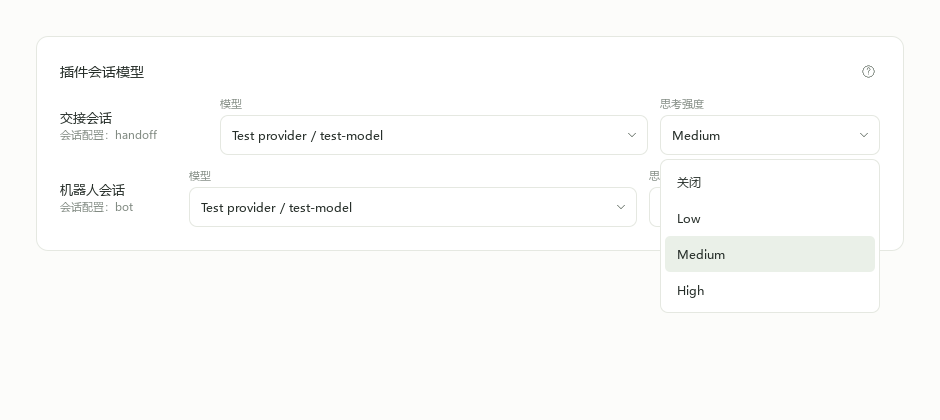
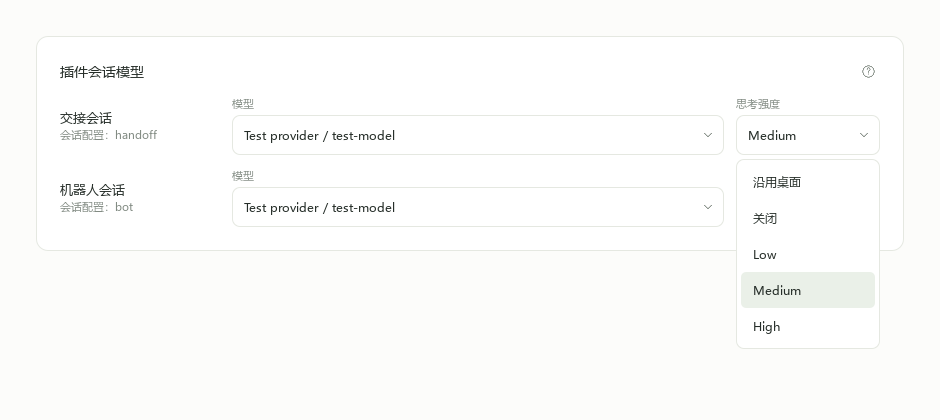
fix(settings): 对齐插件会话列并支持恢复桌面档位
名称列采用固定宽度并截断长名称，模型与思考强度列跨行对齐。
思考下拉框始终以沿用桌面为首项，inherit 清除 profile 中的固定
档位；空字符串继续保持原值，保存失败回滚，忙时在下一输入应用。
同步操作参数说明、文档、测试及展开/收起两张中文离屏截图。

验证：49 项插件策略和设置测试、10 项离屏界面测试、
2 项文档契约测试通过，全部使用假服务，无真实模型请求。

diff --git a/app/qml/PluginSessionModels.qml b/app/qml/PluginSessionModels.qml
@@ -9,6 +9,8 @@ SectionCard {
     objectName: "pluginSessionModels"
     readonly property var profiles: backend.pluginSessionProfiles
     readonly property var choices: backend.pluginSessionModels
+    readonly property real nameColumnWidth: Theme.control(160)
+    readonly property real effortColumnWidth: Theme.control(144)
     visible: profiles.length > 0
     ColumnLayout {
         width: parent.width; spacing: 14
@@ -25,12 +27,16 @@ SectionCard {
                 readonly property string savedEffort: modelData.reasoningEffort || ""
                 Layout.fillWidth: true; spacing: 12
                 ColumnLayout {
-                    Layout.fillWidth: true; spacing: 2
-                    Text { text: row.modelData.pluginName; color: Theme.ink; font.family: Theme.fontFamily; font.pixelSize: Theme.font(13, visible); elide: Text.ElideRight; Layout.fillWidth: true }
-                    Text { text: I18n.t("会话配置：%1").arg(row.modelData.profile); color: Theme.muted; font.family: Theme.fontFamily; font.pixelSize: Theme.font(11, visible); elide: Text.ElideRight; Layout.fillWidth: true }
+                    Layout.minimumWidth: root.nameColumnWidth
+                    Layout.preferredWidth: root.nameColumnWidth
+                    Layout.maximumWidth: root.nameColumnWidth
+                    spacing: 2
+                    Text { objectName: "pluginSessionName_" + row.modelData.plugin + "_" + row.modelData.profile; text: row.modelData.pluginName; color: Theme.ink; font.family: Theme.fontFamily; font.pixelSize: Theme.font(13, visible); elide: Text.ElideRight; Layout.fillWidth: true; Layout.minimumWidth: 0 }
+                    Text { text: I18n.t("会话配置：%1").arg(row.modelData.profile); color: Theme.muted; font.family: Theme.fontFamily; font.pixelSize: Theme.font(11, visible); elide: Text.ElideRight; Layout.fillWidth: true; Layout.minimumWidth: 0 }
                 }
                 ColumnLayout {
-                    Layout.preferredWidth: Math.min(Theme.control(280), root.width * 0.4)
+                    Layout.fillWidth: true
+                    Layout.minimumWidth: 0
                     spacing: 4
                     Text { text: I18n.t("模型"); color: Theme.muted; font.family: Theme.fontFamily; font.pixelSize: Theme.font(11, visible) }
                     Picker {
@@ -53,7 +59,9 @@ SectionCard {
                     }
                 }
                 ColumnLayout {
-                    Layout.preferredWidth: Theme.control(144)
+                    Layout.minimumWidth: root.effortColumnWidth
+                    Layout.preferredWidth: root.effortColumnWidth
+                    Layout.maximumWidth: root.effortColumnWidth
                     spacing: 4
                     Text { text: I18n.t("思考强度"); color: Theme.muted; font.family: Theme.fontFamily; font.pixelSize: Theme.font(11, visible) }
                     Picker {
@@ -61,13 +69,11 @@ SectionCard {
                         objectName: "pluginSessionReasoning_" + row.modelData.plugin + "_" + row.modelData.profile
                         Layout.fillWidth: true
                         enabled: picker.selectedIndex >= 0
-                        // Empty means leave unchanged in the save API, so inheritance is
-                        // offered only while the profile already inherits desktop settings.
-                        readonly property var values: (row.savedEffort ? [] : [""]).concat(["off"],
+                        readonly property var values: ["inherit", "off"].concat(
                             (picker.selectedIndex >= 0 ? root.choices[picker.selectedIndex].reasoningLevels || [] : [])
-                                .filter(level => level !== "off"))
-                        readonly property int selectedIndex: values.indexOf(row.savedEffort)
-                        model: values.map(level => level === "" ? I18n.t("沿用桌面")
+                                .filter(level => level !== "off" && level !== "inherit"))
+                        readonly property int selectedIndex: values.indexOf(row.savedEffort || "inherit")
+                        model: values.map(level => level === "inherit" ? I18n.t("沿用桌面")
                             : level === "off" ? I18n.t("关闭") : Reasoning.label(level))
                         displayText: currentIndex < 0 ? Reasoning.label(row.savedEffort) : currentText
                         Accessible.name: I18n.t("思考强度") + " " + row.modelData.pluginName + " " + row.modelData.profile

diff --git a/tests/test_plugin_session_models_setting.py b/tests/test_plugin_session_models_setting.py
@@ -23,7 +23,7 @@ for name, directory in (("UMEKO_DATA_DIR", "data"), ("XDG_CONFIG_HOME", "config"
                         ("XDG_DATA_HOME", "data"), ("XDG_CACHE_HOME", "cache")):
     os.environ[name] = str(TEST_DIRECTORY / directory)
 
-from PySide6.QtCore import QObject, Property, QUrl, Signal, Slot
+from PySide6.QtCore import QObject, QPointF, Property, QUrl, Signal, Slot
 from PySide6.QtQml import QQmlApplicationEngine
 from PySide6.QtQuick import QQuickWindow
 import shiboken6
@@ -42,8 +42,7 @@ class ProfileBackend(QObject):
         super().__init__()
         self._language = language
         self._profiles = [{"plugin": "session-task-service", "profile": "tasks", "pluginName": "Session task service",
-                           "model": "test-model-a", "provider": "test-provider",
-                           "reasoningEffort": ""}]
+                           "model": "test-model-a", "provider": "test-provider"}]
         self.choices = [dict(row) for row in CHOICES]
         self.calls = []
         self.accept_save = True
@@ -78,7 +77,9 @@ class ProfileBackend(QObject):
             return False
         saved = self._profiles[0]
         saved.update(model=model, provider=provider)
-        if effort:
+        if effort == 'inherit':
+            saved.pop('reasoningEffort', None)
+        elif effort:
             saved['reasoningEffort'] = effort
         self.changed.emit()
         return True
@@ -163,7 +164,7 @@ class PluginSessionModelSettingTests(unittest.TestCase):
         ui = self.ui()
         picker = ui.reasoning_picker()
         self.assertEqual(picker.property("displayText"), "沿用桌面")
-        self.assertEqual(picker.property("values").toVariant(), ["", "off", "low", "high"])
+        self.assertEqual(picker.property("values").toVariant(), ["inherit", "off", "low", "high"])
         picker.setProperty("currentIndex", 3)
         picker.activated.emit(3)
         self.app.processEvents()
@@ -171,7 +172,7 @@ class PluginSessionModelSettingTests(unittest.TestCase):
         picker = ui.reasoning_picker()
         self.assertEqual(ui.backend.calls[-1], ("session-task-service", "tasks", "test-model-a", "test-provider", "high"))
         self.assertEqual(picker.property("displayText"), "High")
-        self.assertEqual(picker.property("values").toVariant(), ["off", "low", "high"])
+        self.assertEqual(picker.property("values").toVariant(), ["inherit", "off", "low", "high"])
         self.assertEqual(ui.warnings, [])
 
     def test_model_change_uses_its_levels_and_preserves_configured_effort(self):
@@ -185,7 +186,7 @@ class PluginSessionModelSettingTests(unittest.TestCase):
         self.app.processEvents()
         self.app.processEvents()
         effort = ui.reasoning_picker()
-        self.assertEqual(effort.property("values").toVariant(), ["off", "medium", "xhigh"])
+        self.assertEqual(effort.property("values").toVariant(), ["inherit", "off", "medium", "xhigh"])
         self.assertEqual(effort.property("displayText"), "High")
         self.assertEqual(ui.backend._profiles[0]['reasoningEffort'], 'high')
         self.assertEqual(ui.warnings, [])
@@ -209,7 +210,7 @@ class PluginSessionModelSettingTests(unittest.TestCase):
         self.app.processEvents()
         self.app.processEvents()
         picker = ui.reasoning_picker()
-        self.assertEqual(picker.property("values").toVariant(), ["off"])
+        self.assertEqual(picker.property("values").toVariant(), ["inherit", "off"])
         self.assertEqual(picker.property("displayText"), "关闭")
         self.assertEqual(ui.warnings, [])
 
@@ -222,6 +223,54 @@ class PluginSessionModelSettingTests(unittest.TestCase):
         self.app.processEvents()
         self.app.processEvents()
         self.assertEqual(picker.property("currentIndex"), 0)
+        self.assertEqual(ui.warnings, [])
+
+    def test_inherit_stays_first_and_clears_the_saved_effort(self):
+        ui = self.ui()
+        ui.backend._profiles[0]['reasoningEffort'] = 'high'
+        ui.backend.changed.emit()
+        self.app.processEvents()
+        picker = ui.reasoning_picker()
+        self.assertEqual(picker.property('values').toVariant()[0], 'inherit')
+        picker.setProperty('currentIndex', 0)
+        picker.activated.emit(0)
+        self.app.processEvents()
+        self.assertEqual(ui.backend.calls[-1][-1], 'inherit')
+        self.assertNotIn('reasoningEffort', ui.backend._profiles[0])
+        self.assertEqual(ui.reasoning_picker().property('currentIndex'), 0)
+        self.assertEqual(ui.reasoning_picker().property('displayText'), '沿用桌面')
+        self.assertEqual(ui.warnings, [])
+
+    def test_inherit_failure_restores_the_saved_effort(self):
+        ui = self.ui()
+        ui.backend._profiles[0]['reasoningEffort'] = 'high'
+        ui.backend.changed.emit()
+        self.app.processEvents()
+        ui.backend.accept_save = False
+        picker = ui.reasoning_picker()
+        picker.setProperty('currentIndex', 0)
+        picker.activated.emit(0)
+        self.app.processEvents()
+        self.assertEqual(picker.property('displayText'), 'High')
+        self.assertEqual(ui.backend._profiles[0]['reasoningEffort'], 'high')
+        self.assertEqual(ui.warnings, [])
+
+    def test_columns_align_for_different_names_and_long_names_are_elided(self):
+        ui = self.ui()
+        ui.backend._profiles[0]['pluginName'] = '交接会话'
+        ui.backend._profiles.append({'plugin': 'other', 'profile': 'bot',
+            'pluginName': '机器人会话与一个需要截断的很长名称' * 8,
+            'model': 'test-model-b', 'provider': 'test-provider', 'reasoningEffort': 'medium'})
+        ui.backend.changed.emit()
+        self.app.processEvents()
+        self.app.processEvents()
+        items = {item.objectName(): item for item in ui.items() if item.objectName()}
+        for prefix in ('pluginSessionModel_', 'pluginSessionReasoning_'):
+            first = items[prefix + 'session-task-service_tasks']
+            second = items[prefix + 'other_bot']
+            self.assertAlmostEqual(first.mapToScene(QPointF()).x(), second.mapToScene(QPointF()).x())
+            self.assertAlmostEqual(first.width(), second.width())
+        self.assertTrue(items['pluginSessionName_other_bot'].property('truncated'))
         self.assertEqual(ui.warnings, [])
 
     def test_english_labels(self):

diff --git a/scripts/build-umeko-docs.py b/scripts/build-umeko-docs.py
@@ -24,7 +24,11 @@ def generate():
                   '', 'Python 插件会话可用 `pluginSessions.setModel` 同时设置模型路由和思考强度，也可只更新思考强度：',
                   '', '```json',
                   '{"operation":"pluginSessions.setModel","arguments":{"plugin":"session-task-service","profile":"tasks","reasoningEffort":"medium"}}',
-                  '```', '', '`reasoningEffort` 为空字符串或省略时保留当前配置；可填写 `off`、`none`、`minimal`、`low`、`medium`、`high`、`xhigh`、`max`、`ultra` 或模型直接支持的自定义档位。省略模型时保留模型，新模型省略供应商时使用实际路由。',
+                  '```', '', operations['pluginSessions.setModel']['description'],
+                  '', '`inherit` 是清除档位的操作值，保存后配置中移除 `reasoningEffort` 字段。其他值可填写 `off`、`none`、`minimal`、`low`、`medium`、`high`、`xhigh`、`max`、`ultra` 或模型直接支持的自定义档位。省略模型时保留模型，新模型省略供应商时使用实际路由。',
+                  '', '```json',
+                  '{"operation":"pluginSessions.setModel","arguments":{"plugin":"session-task-service","profile":"tasks","reasoningEffort":"inherit"}}',
+                  '```',
                   '', '插件会话优先使用 `pluginSessionProfiles.<plugin>.<profile>.reasoningEffort`，未配置时继承 `ui.reasoningEffort`，两者均未配置时使用 `off`。宿主在新会话或下一次输入时按模型支持的档位对齐，保存的配置值继续保留。详见 [Widget 插件](widget-plugins.md)。',
                   '', '`agent.defaultReasoning` 设置新桌面会话的默认档位；`sessions.reasoning` 设置当前或指定会话的档位。`agent.save` 的 `config` 支持 `autoCompaction`、`maxContextImages` 等局部设置。全局工具权限沿用用户界面确认。完整设置、参数范围与生效时机见 [设置说明](settings.md)。',
                   '', 'Widget 只读查询：`widgets.list`、`widgets.docs`、`widgets.messages`、`widgets.result`、`widgets.resource`。',

diff --git a/tests/test_plugin_sessions.py b/tests/test_plugin_sessions.py
@@ -249,6 +249,32 @@ class PluginSessionTests(unittest.TestCase):
         finally:
             record.process = None
 
+    def test_busy_inherit_waits_for_next_queued_input_without_interrupting(self):
+        profile = self.reasoning_profile('medium')
+        self.b.store.data['ui']['reasoningEffort'] = 'high'
+        owned = self.acquire()
+        record = self.b._pool.find(owned['sessionId'])
+        first = self.result('sessions.submit', {'handle': owned['handle'],
+            'requestId': 'first', 'content': 'first'})
+        set_profile_model(self.b, 'fixture-channel', 'tasks', reasoningEffort='inherit')
+        self.assertNotIn('reasoningEffort', profile)
+        with patch.object(self.b._pool, 'write') as write, patch.object(self.b._pool, 'retire') as retire:
+            second = self.result('sessions.submit', {'handle': owned['handle'],
+                'requestId': 'second', 'content': 'second'})
+            self.assertEqual(second['disposition'], 'queued')
+            self.assertTrue(record.busy)
+            self.assertEqual(record.reasoning_effort, 'medium')
+            self.assertEqual(self.b.store.data['sessionMeta'][record.id]['reasoningEffort'], 'medium')
+            self.assertEqual(self.m._host_services._sessions.runs[first['runId']]['status'], 'running')
+            self.assertEqual([action for action, _, _ in self.commands], ['prompt'])
+            write.assert_not_called()
+            retire.assert_not_called()
+            self.finish(record, 'first reply')
+            pump_until(self.app, lambda: len(self.commands) == 2, 'Queued inherited effort did not apply')
+            self.assertEqual(record.reasoning_effort, 'high')
+            self.assertEqual(self.b.store.data['sessionMeta'][record.id]['reasoningEffort'], 'high')
+            self.assertEqual([action for action, _, _ in self.commands], ['prompt', 'prompt'])
+
     def test_profile_effort_validation_and_model_reconciliation(self):
         profile = self.reasoning_profile()
         record = self.b._pool.find(self.acquire()['sessionId'])

diff --git a/tests/test_plugin_profile_reasoning.py b/tests/test_plugin_profile_reasoning.py
@@ -104,6 +104,34 @@ class ProfileReasoningTests(unittest.TestCase):
         self.assertEqual(self.profile['reasoningEffort'], 'high')
         self.assertEqual(session_policy(self.backend, self.record)['reasoningEffort'], 'off')
 
+    def test_inherit_removes_medium_override_and_resolves_desktop_default(self):
+        self.store.data['providers'][0]['models'][0]['reasoningLevels'] = ['low', 'medium', 'high']
+        self.store.data['ui'] = {'reasoningEffort': 'high'}
+        self.set_effort('medium')
+        self.set_effort('')
+        self.assertEqual(self.profile['reasoningEffort'], 'medium')
+        original = copy.deepcopy(self.profile)
+        result = self.set_effort('inherit')
+        original.pop('reasoningEffort')
+        self.assertEqual(self.profile, original)
+        self.assertEqual(result['reasoningEffort'], '')
+        self.assertEqual(profile_rows(self.backend)[0]['reasoningEffort'], '')
+        self.assertEqual(session_policy(self.backend, self.record)['reasoningEffort'], 'high')
+        self.set_effort('')
+        self.assertNotIn('reasoningEffort', self.profile)
+
+    def test_inherit_save_failure_restores_override_or_absence(self):
+        for old_fields in ({}, {'reasoningEffort': 'medium'}):
+            for error in (OSError, RuntimeError):
+                with self.subTest(old_fields=old_fields, error=error):
+                    self.profile.pop('reasoningEffort', None)
+                    self.profile.update(old_fields)
+                    original = copy.deepcopy(self.profile)
+                    self.store.save.side_effect = [None, error('fixture save failed')]
+                    with self.assertRaises(error):
+                        self.set_effort('inherit')
+                    self.assertEqual(self.profile, original)
+
     def test_save_failure_rolls_back_model_provider_and_effort_including_absence(self):
         for old_fields in ({}, {'provider': 'provider-a', 'reasoningEffort': 'high'}):
             with self.subTest(old_fields=old_fields):

diff --git a/app/plugin_sessions.py b/app/plugin_sessions.py
@@ -98,7 +98,8 @@ def set_profile_model(backend, plugin, profile, model='', provider='', reasoning
     """Change the model route or reasoning effort of an existing profile.
 
     Workspace, tools, permission mode and approvals stay as the user approved
-    them. Sessions pick up the new route at their next input boundary.
+    them. Sessions pick up the new route at their next input boundary. The
+    special effort value ``inherit`` removes the profile's explicit override.
     """
     backend.store.save()  # Read in pending external edits before changing the profile.
     profiles = backend.store.data.get('pluginSessionProfiles', {})
@@ -120,13 +121,15 @@ def set_profile_model(backend, plugin, profile, model='', provider='', reasoning
         raise ValueError('该模型别名在多个供应商中重复，请使用唯一的模型别名')
     if not isinstance(reasoningEffort, str):
         raise ValueError('The profile reasoningEffort must be off or a valid reasoning level')
-    if reasoningEffort:
+    if reasoningEffort and reasoningEffort != 'inherit':
         _profile_effort(backend, {'reasoningEffort': reasoningEffort}, alias, resolved['id'])
     keys = ('model', 'provider', 'reasoningEffort')
     previous = {key: target[key] for key in keys if key in target}
     if model or provider:
         target.update(model=alias, provider=resolved['id'])
-    if reasoningEffort:
+    if reasoningEffort == 'inherit':
+        target.pop('reasoningEffort', None)
+    elif reasoningEffort:
         target['reasoningEffort'] = reasoningEffort
     try:
         backend.store.save()

diff --git a/tests/test_settings_operations.py b/tests/test_settings_operations.py
@@ -159,6 +159,20 @@ class SettingsOperationTests(unittest.TestCase):
         self.assertEqual((profile['model'], profile['provider'], profile['reasoningEffort']),
                          ('other-model', 'other-provider', 'high'))
 
+    def test_plugin_inherit_clears_persisted_override_and_empty_effort_preserves_it(self):
+        self.b.store.data['pluginSessionProfiles'] = {'sample': {'tasks': {
+            'model': 'test-model', 'provider': 'test-provider', 'reasoningEffort': 'medium'}}}
+        arguments = {'plugin': 'sample', 'profile': 'tasks'}
+        self.applied('pluginSessions.setModel', {**arguments, 'reasoningEffort': ''})
+        self.assertEqual(self.persisted()['pluginSessionProfiles']['sample']['tasks']['reasoningEffort'], 'medium')
+        self.applied('pluginSessions.setModel', {**arguments, 'reasoningEffort': 'inherit'})
+        expected = {'model': 'test-model', 'provider': 'test-provider'}
+        self.assertEqual(self.b.store.data['pluginSessionProfiles']['sample']['tasks'], expected)
+        self.assertEqual(self.persisted()['pluginSessionProfiles']['sample']['tasks'], expected)
+        self.assertEqual(self.b.pluginSessionProfiles[0]['reasoningEffort'], '')
+        self.write.assert_not_called()
+        self.restart.assert_not_called()
+
     def test_models_and_reasoning_are_registered_and_validate_before_mutation(self):
         listed = self.execute('operations.list')['operations']
         for operation in ('models.select', 'sessions.reasoning'):

diff --git a/runtime/umeko-docs/widget-plugins.md b/runtime/umeko-docs/widget-plugins.md
@@ -182,6 +182,12 @@ Agent 可调用插件公开方法传入结构化数据。插件通过 `context.p
 {"operation":"pluginSessions.setModel","arguments":{"plugin":"example-service","profile":"tasks","model":"","provider":"","reasoningEffort":"medium"}}
 ```
 
+传入明确的操作值 `inherit` 可清除固定档位，删除配置中的 `reasoningEffort` 字段，恢复沿用桌面 `ui.reasoningEffort`。界面下拉框始终把“沿用桌面”放在第一项，选择后调用同一个 `inherit` 操作。空字符串仍表示保留当前配置。清除后的已有会话在下一次输入时使用桌面默认档位，当前回合继续按原设置完成；保存失败时恢复原来的配置字段。
+
+```json
+{"operation":"pluginSessions.setModel","arguments":{"plugin":"example-service","profile":"tasks","reasoningEffort":"inherit"}}
+```
+
 这个操作只修改模型路由和明确传入的思考档位，工作区、工具、权限模式和审批设置保持用户批准时的值。已取得的会话在下一次输入时使用新模型和档位；正在运行的回合按原设置完成。
 
 `tools` 为精确工具名列表，与桌面策略取交集；服务始终排除桌面管理工具 `umeko_desktop`、`pi` 和 `pi_commands`，保证配置无法通过管理操作被修改。其他核心工具与可选子 Agent 工具需要显式配置，并受桌面策略限制。子 Agent 运行时继承同一强制工具与权限上限，模型注册表只提供配置选定的模型。`permissionMode` 为 `ask` 或 `auto`，上限是桌面允许的权限。`allowApprovals` 默认 `false`，与工具配置相互独立；开启后插件可以注册审批处理器，逐个回应 confirm 类审批请求。
